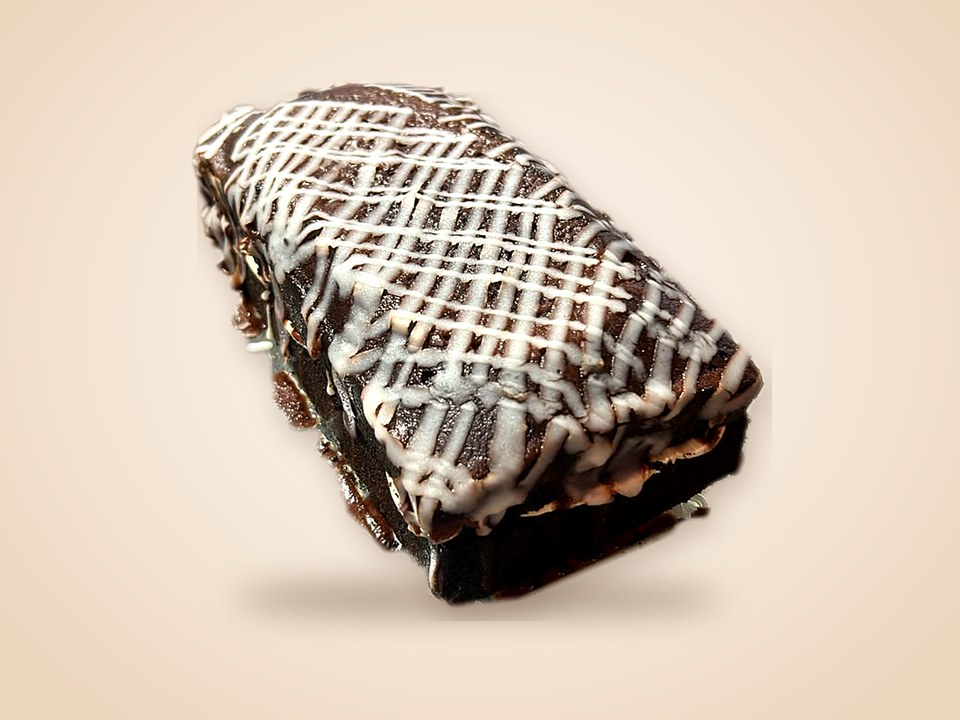
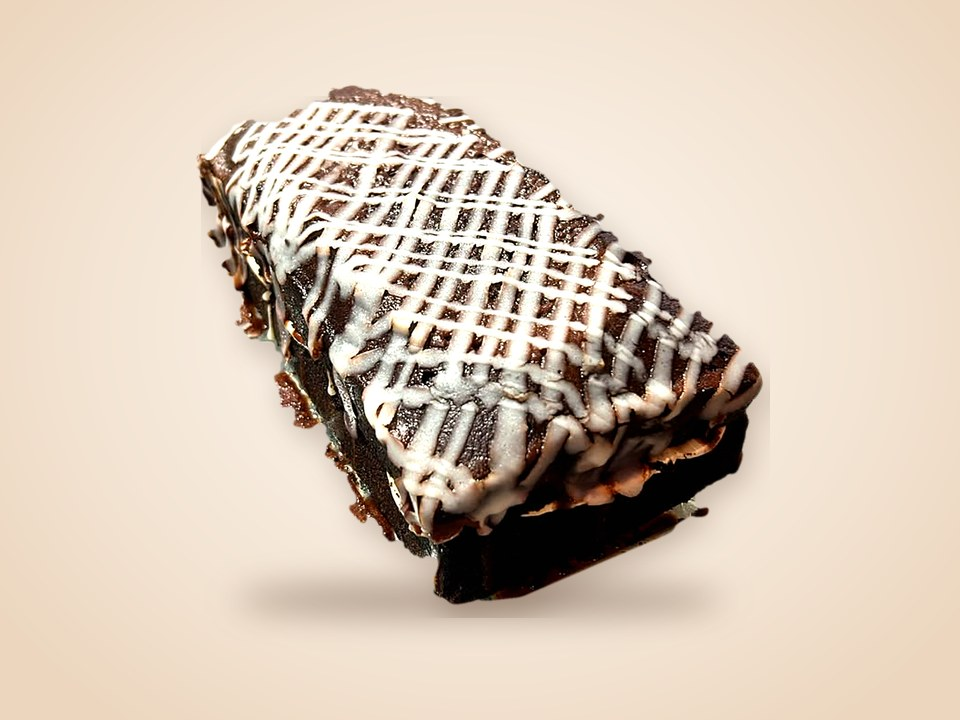
Domos nuevos con mejor recorte y brillo; foto de Mantecada empaque individual
Claude-Session: https://claude.ai/code/session_01CXgPpzeanZSn7nNy7uupPz

diff --git a/index.html b/index.html
@@ -170,7 +170,7 @@ a{color:#9A4A0E}a:hover{color:#3A2216}
 <button type="button" aria-label="Ver siguientes" data-act="next" class="bj-arrow" style="width: 56px; height: 56px; border-radius: 999px; border: 2px solid #F5E6D3; background: #F5E6D3; color: #3A2216; display: flex; align-items: center; justify-content: center; cursor: pointer"><svg aria-hidden="true" width="22" height="22" viewBox="0 0 24 24" fill="none" stroke="currentColor" stroke-width="2.4" stroke-linecap="round" stroke-linejoin="round"><path d="M9 6l6 6-6 6"></path></svg></button>
 </div>
 </div>
-<div data-track="1" class="bj-track" style="display: flex; gap: 20px; overflow-x: auto; scroll-snap-type: x mandatory; scroll-padding: 0; box-sizing: content-box; max-width: 2080px; margin: 0 auto; padding: 36px clamp(20px, 4vw, 56px) 8px; scroll-padding-left: clamp(20px, 4vw, 56px)"><article class="bj-card" tabindex="0" style="flex: 0 0 clamp(250px, 16vw, 340px); scroll-snap-align: start; box-sizing: border-box; padding: 12px 12px 18px; border-radius: 24px; background: #FFF8EF; border: 1.5px solid #E3C9AC; display: flex; flex-direction: column; gap: 12px"><img class="bj-cardcat" src="assets/catface.png" alt="" aria-hidden="true"><img src="assets/mantecada.jpg" alt="Mantecada Grande" style="display: block; width: 100%; aspect-ratio: 4 / 3; object-fit: cover; border-radius: 16px; background: #F3E2CF"><div style="display: flex; flex-direction: column; gap: 8px; padding: 0 6px"><h3 style="margin: 0; font-family: Fredoka, sans-serif; font-weight: 600; font-size: 20px; line-height: 1.15; color: #3A2216">Mantecada Grande</h3><div style="display: flex; flex-wrap: wrap; gap: 6px"><span style="display: inline-block; padding: 5px 12px; border-radius: 999px; border: 1.5px solid #E8701A; color: #9A4A0E; font-size: 13px; font-weight: 700">18 a 24 unidades</span></div></div></article><article class="bj-card" tabindex="0" style="flex: 0 0 clamp(250px, 16vw, 340px); scroll-snap-align: start; box-sizing: border-box; padding: 12px 12px 18px; border-radius: 24px; background: #FFF8EF; border: 1.5px solid #E3C9AC; display: flex; flex-direction: column; gap: 12px"><img class="bj-cardcat" src="assets/catface.png" alt="" aria-hidden="true"><img src="assets/mantecada-domo.jpg" alt="Mantecada Junior" style="display: block; width: 100%; aspect-ratio: 4 / 3; object-fit: cover; border-radius: 16px; background: #F3E2CF"><div style="display: flex; flex-direction: column; gap: 8px; padding: 0 6px"><h3 style="margin: 0; font-family: Fredoka, sans-serif; font-weight: 600; font-size: 20px; line-height: 1.15; color: #3A2216">Mantecada Junior</h3><div style="display: flex; flex-wrap: wrap; gap: 6px"><span style="display: inline-block; padding: 5px 12px; border-radius: 999px; border: 1.5px solid #E8701A; color: #9A4A0E; font-size: 13px; font-weight: 700">12 unidades</span></div></div></article><article class="bj-card" tabindex="0" style="flex: 0 0 clamp(250px, 16vw, 340px); scroll-snap-align: start; box-sizing: border-box; padding: 12px 12px 18px; border-radius: 24px; background: #FFF8EF; border: 1.5px solid #E3C9AC; display: flex; flex-direction: column; gap: 12px"><img class="bj-cardcat" src="assets/catface.png" alt="" aria-hidden="true"><img src="assets/mantecada-domo.jpg" alt="Mantecada Domo" style="display: block; width: 100%; aspect-ratio: 4 / 3; object-fit: cover; border-radius: 16px; background: #F3E2CF"><div style="display: flex; flex-direction: column; gap: 8px; padding: 0 6px"><h3 style="margin: 0; font-family: Fredoka, sans-serif; font-weight: 600; font-size: 20px; line-height: 1.15; color: #3A2216">Mantecada Domo</h3><div style="display: flex; flex-wrap: wrap; gap: 6px"><span style="display: inline-block; padding: 5px 12px; border-radius: 999px; border: 1.5px solid #E8701A; color: #9A4A0E; font-size: 13px; font-weight: 700">9 unidades</span></div></div></article><article class="bj-card" tabindex="0" style="flex: 0 0 clamp(250px, 16vw, 340px); scroll-snap-align: start; box-sizing: border-box; padding: 12px 12px 18px; border-radius: 24px; background: #FFF8EF; border: 1.5px solid #E3C9AC; display: flex; flex-direction: column; gap: 12px"><img class="bj-cardcat" src="assets/catface.png" alt="" aria-hidden="true"><div style="width: 100%; aspect-ratio: 4 / 3; border-radius: 16px; background: repeating-linear-gradient(90deg, #F6E7D4 0 18px, #EFD9BF 18px 36px); display: flex; flex-direction: column; align-items: center; justify-content: center; gap: 8px"><img src="assets/logo.png" alt="" style="width: 92px; opacity: 0.55"><span style="font-size: 13px; font-weight: 700; color: #6B4430; letter-spacing: 0.04em; text-transform: uppercase">Foto próximamente</span></div><div style="display: flex; flex-direction: column; gap: 8px; padding: 0 6px"><h3 style="margin: 0; font-family: Fredoka, sans-serif; font-weight: 600; font-size: 20px; line-height: 1.15; color: #3A2216">Mantecada empaque individual</h3></div></article></div>
+<div data-track="1" class="bj-track" style="display: flex; gap: 20px; overflow-x: auto; scroll-snap-type: x mandatory; scroll-padding: 0; box-sizing: content-box; max-width: 2080px; margin: 0 auto; padding: 36px clamp(20px, 4vw, 56px) 8px; scroll-padding-left: clamp(20px, 4vw, 56px)"><article class="bj-card" tabindex="0" style="flex: 0 0 clamp(250px, 16vw, 340px); scroll-snap-align: start; box-sizing: border-box; padding: 12px 12px 18px; border-radius: 24px; background: #FFF8EF; border: 1.5px solid #E3C9AC; display: flex; flex-direction: column; gap: 12px"><img class="bj-cardcat" src="assets/catface.png" alt="" aria-hidden="true"><img src="assets/mantecada.jpg" alt="Mantecada Grande" style="display: block; width: 100%; aspect-ratio: 4 / 3; object-fit: cover; border-radius: 16px; background: #F3E2CF"><div style="display: flex; flex-direction: column; gap: 8px; padding: 0 6px"><h3 style="margin: 0; font-family: Fredoka, sans-serif; font-weight: 600; font-size: 20px; line-height: 1.15; color: #3A2216">Mantecada Grande</h3><div style="display: flex; flex-wrap: wrap; gap: 6px"><span style="display: inline-block; padding: 5px 12px; border-radius: 999px; border: 1.5px solid #E8701A; color: #9A4A0E; font-size: 13px; font-weight: 700">18 a 24 unidades</span></div></div></article><article class="bj-card" tabindex="0" style="flex: 0 0 clamp(250px, 16vw, 340px); scroll-snap-align: start; box-sizing: border-box; padding: 12px 12px 18px; border-radius: 24px; background: #FFF8EF; border: 1.5px solid #E3C9AC; display: flex; flex-direction: column; gap: 12px"><img class="bj-cardcat" src="assets/catface.png" alt="" aria-hidden="true"><img src="assets/mantecada-individual.jpg" alt="Mantecada empaque individual" style="display: block; width: 100%; aspect-ratio: 4 / 3; object-fit: cover; border-radius: 16px; background: #F3E2CF"><div style="display: flex; flex-direction: column; gap: 8px; padding: 0 6px"><h3 style="margin: 0; font-family: Fredoka, sans-serif; font-weight: 600; font-size: 20px; line-height: 1.15; color: #3A2216">Mantecada empaque individual</h3></div></article><article class="bj-card" tabindex="0" style="flex: 0 0 clamp(250px, 16vw, 340px); scroll-snap-align: start; box-sizing: border-box; padding: 12px 12px 18px; border-radius: 24px; background: #FFF8EF; border: 1.5px solid #E3C9AC; display: flex; flex-direction: column; gap: 12px"><img class="bj-cardcat" src="assets/catface.png" alt="" aria-hidden="true"><img src="assets/mantecada-domo.jpg" alt="Mantecada Junior" style="display: block; width: 100%; aspect-ratio: 4 / 3; object-fit: cover; border-radius: 16px; background: #F3E2CF"><div style="display: flex; flex-direction: column; gap: 8px; padding: 0 6px"><h3 style="margin: 0; font-family: Fredoka, sans-serif; font-weight: 600; font-size: 20px; line-height: 1.15; color: #3A2216">Mantecada Junior</h3><div style="display: flex; flex-wrap: wrap; gap: 6px"><span style="display: inline-block; padding: 5px 12px; border-radius: 999px; border: 1.5px solid #E8701A; color: #9A4A0E; font-size: 13px; font-weight: 700">12 unidades</span></div></div></article><article class="bj-card" tabindex="0" style="flex: 0 0 clamp(250px, 16vw, 340px); scroll-snap-align: start; box-sizing: border-box; padding: 12px 12px 18px; border-radius: 24px; background: #FFF8EF; border: 1.5px solid #E3C9AC; display: flex; flex-direction: column; gap: 12px"><img class="bj-cardcat" src="assets/catface.png" alt="" aria-hidden="true"><img src="assets/mantecada-domo.jpg" alt="Mantecada Domo" style="display: block; width: 100%; aspect-ratio: 4 / 3; object-fit: cover; border-radius: 16px; background: #F3E2CF"><div style="display: flex; flex-direction: column; gap: 8px; padding: 0 6px"><h3 style="margin: 0; font-family: Fredoka, sans-serif; font-weight: 600; font-size: 20px; line-height: 1.15; color: #3A2216">Mantecada Domo</h3><div style="display: flex; flex-wrap: wrap; gap: 6px"><span style="display: inline-block; padding: 5px 12px; border-radius: 999px; border: 1.5px solid #E8701A; color: #9A4A0E; font-size: 13px; font-weight: 700">9 unidades</span></div></div></article></div>
 </section><section id="brownies" data-row="1" style="background: #FFF8EF; padding: 72px 0 80px">
 <div style="max-width: 2080px; margin: 0 auto; padding: 0 clamp(20px, 4vw, 56px); display: flex; flex-wrap: wrap; align-items: flex-end; justify-content: space-between; gap: 20px">
 <div style="display: flex; flex-direction: column; gap: 6px">
